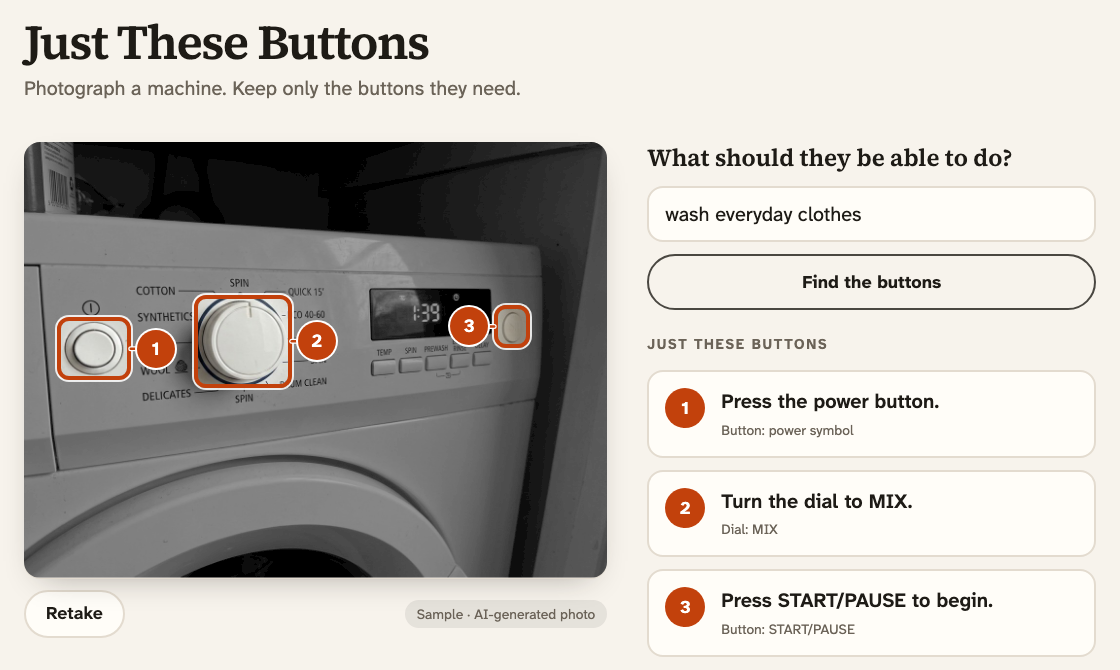
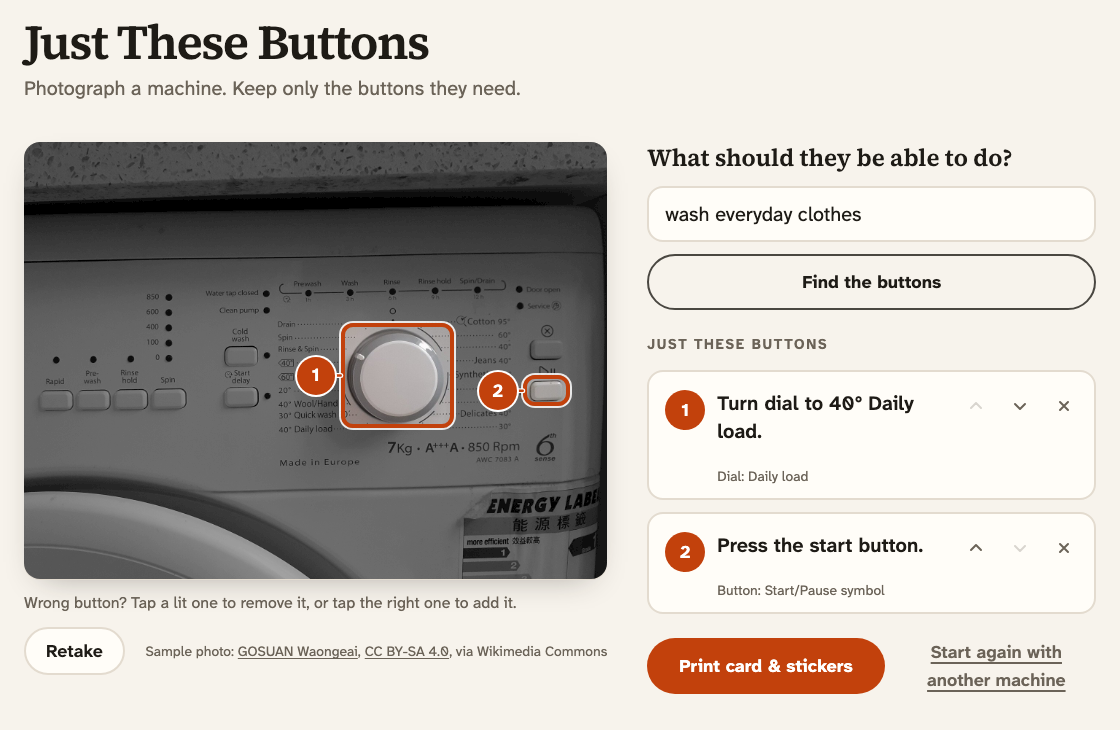
fix(print): size numbers in millimetres so tall photos print them large
Numbers on a portrait photo (the microwave) printed a few millimetres
wide; they now print 9 mm on any photo shape. README shows real photos.

diff --git a/components/PrintSheet.tsx b/components/PrintSheet.tsx
@@ -25,6 +25,9 @@ export function printRegion(rects: Rect[], W: number, H: number) {
   return { x, y, width, height };
 }
 
+const PRINT_HEIGHT_MM = 100;
+const PRINT_WIDTH_MM = 186;
+
 /** Same idea as the on-screen overlay, drawn for paper: one SVG, black ink, the rest washed out. */
 function PrintOverlay({ photo, steps }: { photo: Photo; steps: Step[] }) {
   const W = 1000;
@@ -37,9 +40,10 @@ function PrintOverlay({ photo, steps }: { photo: Photo; steps: Step[] }) {
     bottom: (Math.min(1000, y1 + pad) * H) / 1000,
   }));
   const view = printRegion(rects, W, H);
-  // Sizes follow the zoom, so badges and rings print at the same physical size.
-  const unit = view.width / 1000;
-  const badge = 64 * unit;
+  // The photo prints 100 mm tall, or 186 mm wide if it's very wide (see .print-photo).
+  // Sizing in millimetres keeps numbers and rings the same on paper for any photo shape.
+  const mm = 1 / Math.min(PRINT_HEIGHT_MM / view.height, PRINT_WIDTH_MM / view.width);
+  const badge = 9 * mm;
   const shifted = rects.map((r) => ({ left: r.left - view.x, top: r.top - view.y, right: r.right - view.x, bottom: r.bottom - view.y }));
   const spots = placeBadges(shifted, badge, view.width, view.height).map((p) => ({ x: p.x + view.x, y: p.y + view.y }));
 
@@ -62,7 +66,7 @@ function PrintOverlay({ photo, steps }: { photo: Photo; steps: Step[] }) {
         <mask id="print-keep">
           <rect width={W} height={H} fill="black" />
           {rects.map((r, i) => (
-            <rect key={i} x={r.left} y={r.top} width={r.right - r.left} height={r.bottom - r.top} rx={14 * unit} fill="white" />
+            <rect key={i} x={r.left} y={r.top} width={r.right - r.left} height={r.bottom - r.top} rx={1.5 * mm} fill="white" />
           ))}
         </mask>
       </defs>
@@ -75,19 +79,19 @@ function PrintOverlay({ photo, steps }: { photo: Photo; steps: Step[] }) {
           y={r.top}
           width={r.right - r.left}
           height={r.bottom - r.top}
-          rx={14 * unit}
+          rx={1.5 * mm}
           fill="none"
           stroke="#000"
-          strokeWidth={7 * unit}
+          strokeWidth={0.8 * mm}
         />
       ))}
       {spots.map((p, i) => {
         const end = nearestOnRect(p, rects[i]);
         return (
           <g key={`badge-${i}`}>
-            <line x1={p.x} y1={p.y} x2={end.x} y2={end.y} stroke="#000" strokeWidth={5 * unit} />
-            <circle cx={p.x} cy={p.y} r={badge / 2} fill="#000" stroke="#fff" strokeWidth={4 * unit} />
-            <text x={p.x} y={p.y} dy="0.36em" textAnchor="middle" fill="#fff" fontSize={38 * unit} fontWeight="700" fontFamily="var(--font-sans)">
+            <line x1={p.x} y1={p.y} x2={end.x} y2={end.y} stroke="#000" strokeWidth={0.6 * mm} />
+            <circle cx={p.x} cy={p.y} r={badge / 2} fill="#000" stroke="#fff" strokeWidth={0.5 * mm} />
+            <text x={p.x} y={p.y} dy="0.36em" textAnchor="middle" fill="#fff" fontSize={5.4 * mm} fontWeight="700" fontFamily="var(--font-sans)">
               {i + 1}
             </text>
           </g>
@@ -120,7 +124,10 @@ export default function PrintSheet({ photo, task, steps }: Props) {
             </li>
           ))}
         </ol>
-        <p className="print-credit">Made with Just These Buttons</p>
+        <p className="print-credit">
+          Made with Just These Buttons
+          {photo.credit && ` · Photo: ${photo.credit.author}, ${photo.credit.license}, via Wikimedia Commons`}
+        </p>
       </section>
 
       <section className="print-stickers">

diff --git a/devpost/app-map.html b/devpost/app-map.html
@@ -56,7 +56,7 @@
 </head>
 <body>
 <main>
-  <div class="eyebrow">App map · snapshot of commit 0972a37</div>
+  <div class="eyebrow">App map · snapshot after the real-photo samples</div>
   <h1>Just These Buttons</h1>
   <p class="lede">A one-page web app: a family member photographs a machine, names one task, checks the buttons the AI kept, and prints a card and number stickers for the real machine.</p>
 
@@ -141,7 +141,7 @@ cp .env.example .env.local   # set GEMINI_API_KEY
 npm run dev                  # http://localhost:3000
 npm test                     # 32 unit tests</pre>
 
-  <footer>A snapshot of the code at commit 0972a37. Paths and names will drift as the code changes; search for the named symbol if a line has moved. Planning documents: <code>devpost/scope.md</code>, <code>prd.md</code>, <code>spec.md</code>, <code>checklist.md</code>.</footer>
+  <footer>A snapshot of the code after the real-photo samples were added. Paths and names will drift as the code changes; search for the named symbol if a line has moved. Planning documents: <code>devpost/scope.md</code>, <code>prd.md</code>, <code>spec.md</code>, <code>checklist.md</code>.</footer>
 </main>
 </body>
 </html>

diff --git a/README.md b/README.md
@@ -2,7 +2,7 @@
 
 **Photograph a machine your grandparent struggles with, name one task, and print a card that shows only the buttons that task needs.**
 
-![The result screen: a washing machine photo with every control dimmed except the power button, the programme dial and START/PAUSE, numbered 1 to 3, with the steps listed beside it.](docs/images/result.png)
+![The result screen: a real washing machine panel with every control dimmed except the programme dial and the start button, numbered 1 and 2, with the steps listed beside it.](docs/images/result.png)
 
 A web app for the grandchild or adult child who looks after an elderly grandparent. The grandparent's health or memory is failing, and they keep getting stuck on the washing machine or the TV remote. The family member opens a link, takes a photo, types what the grandparent needs to do ("wash everyday clothes"), and gets back:
 
@@ -12,11 +12,11 @@ A web app for the grandchild or adult child who looks after an elderly grandpare
 
 The grandparent never touches a phone or an app. The help lives on the machine they already own.
 
-| The printed page | Small buttons on a remote |
+| The printed page | Dials, not buttons |
 |---|---|
-| ![A printed A4 card titled "Wash everyday clothes": the washer photo washed out except three ringed controls, three large numbered steps, and a strip of number stickers to cut out.](docs/images/card.png) | ![A TV remote on a sofa, dimmed except the red POWER button and the 1 key, numbered 1 and 2.](docs/images/remote.png) |
+| ![A printed A4 card titled "Wash everyday clothes": the washer panel washed out except the programme dial and the start button, two large numbered steps, and a strip of number stickers to cut out.](docs/images/card.png) | ![A microwave with two dials, dimmed except both dials, numbered 1 and 2: turn the top knob to the highest heat symbol, turn the bottom dial to 1.](docs/images/microwave.png) |
 
-*The washing machine and remote photos are AI-generated test images (see [Vision probe](docs/vision-probe.md)).*
+*Sample photos: real appliances from Wikimedia Commons, CC BY-SA — see [photo credits](docs/photo-credits.md).*
 
 ## Why
 
@@ -41,7 +41,7 @@ cp .env.example .env.local        # then set GEMINI_API_KEY
 npm run dev                       # http://localhost:3000
 ```
 
-Tap **Try a sample washing machine**, then **Find the buttons**. To use a phone's camera, open `http://<your-computer's-IP>:3000` on a phone on the same Wi-Fi.
+Tap one of the sample photos (**Washing machine**, **Microwave**, **TV remote**), then **Find the buttons**. To use a phone's camera, open `http://<your-computer's-IP>:3000` on a phone on the same Wi-Fi.
 
 | Command | What it does |
 |---|---|
@@ -71,4 +71,4 @@ Each file has an HTML companion next to it. Code was written with Claude Code.
 
 ## Licence
 
-[MIT](LICENSE)
+Code: [MIT](LICENSE). Sample photos keep their own Creative Commons licences ([photo credits](docs/photo-credits.md)).
